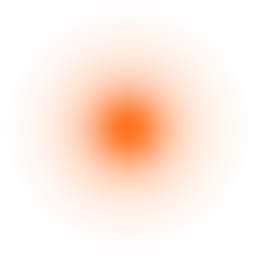
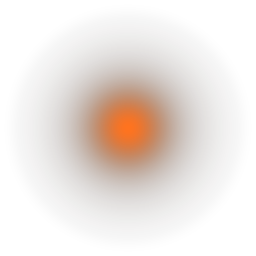
Flare cards: premultiplied emission, opacity threshold, lower gain

diff --git a/sim/flare_fx.py b/sim/flare_fx.py
@@ -22,7 +22,7 @@ FRAMES = COLS * ROWS
 FPS = 18.0
 HEIGHT, WIDTH = 24.0, 11.0
 WIND = (2.6, 1.5)
-EMISSION = 22.0
+EMISSION = 9.0
 CARDS = (
     (0.0, 1.0, 1.0, 0.0, 1.0),
     (38.0, 0.8, 0.82, 0.37, 1.27),
@@ -99,8 +99,8 @@ def flame_frames(n: int = FRAMES, w: int = TILE_W, h: int = TILE_H, seed: int = 
         i = np.clip(i * env**0.5, 0.0, 1.0) * smoothstep(0.0, 0.03, v) * edge
         heat = np.clip(i * (1.0 - 0.8 * v) * body**0.4, 0.0, 1.0)
         glow = 0.03 + 0.97 * heat**3.0
-        out[k, ..., :3] = ramp(heat) * glow[..., None]
         out[k, ..., 3] = smoothstep(0.06, 0.3, i)
+        out[k, ..., :3] = ramp(heat) * (glow * out[k, ..., 3])[..., None]
     return out
 
 
@@ -136,7 +136,7 @@ def halo(size: int = 256) -> np.ndarray:
     r = np.hypot(x, y)
     a = np.exp(-(r / 0.28) ** 2) * 0.6 + np.exp(-(r / 0.55) ** 2) * 0.4
     a = a * smoothstep(1.0, 0.85, r)
-    img = np.dstack([np.ones_like(r), np.full_like(r, 0.45), np.full_like(r, 0.12), a])
+    img = np.dstack([a, a * 0.45, a * 0.12, a])
     return (np.clip(img, 0, 1) * 255 + 0.5).astype(np.uint8)
 
 
@@ -252,6 +252,7 @@ def _texture_material(stage, path: str, texture: str, emissive: bool, diffuse=(0
     gain = gain if emissive else 1.0
     tex.CreateInput("scale", Sdf.ValueTypeNames.Float4).Set(Gf.Vec4f(gain, gain, gain, alpha))
     sh.CreateInput("opacity", Sdf.ValueTypeNames.Float).ConnectToSource(tex.CreateOutput("a", Sdf.ValueTypeNames.Float))
+    sh.CreateInput("opacityThreshold", Sdf.ValueTypeNames.Float).Set(0.01)
     rgb = tex.CreateOutput("rgb", Sdf.ValueTypeNames.Float3)
     if emissive:
         sh.CreateInput("emissiveColor", Sdf.ValueTypeNames.Color3f).ConnectToSource(rgb)
